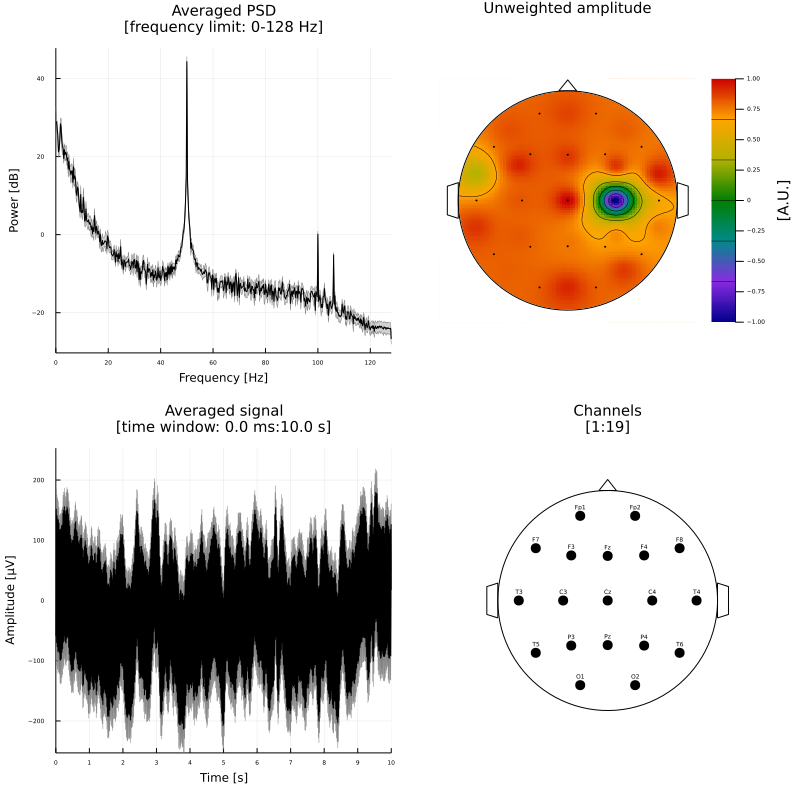
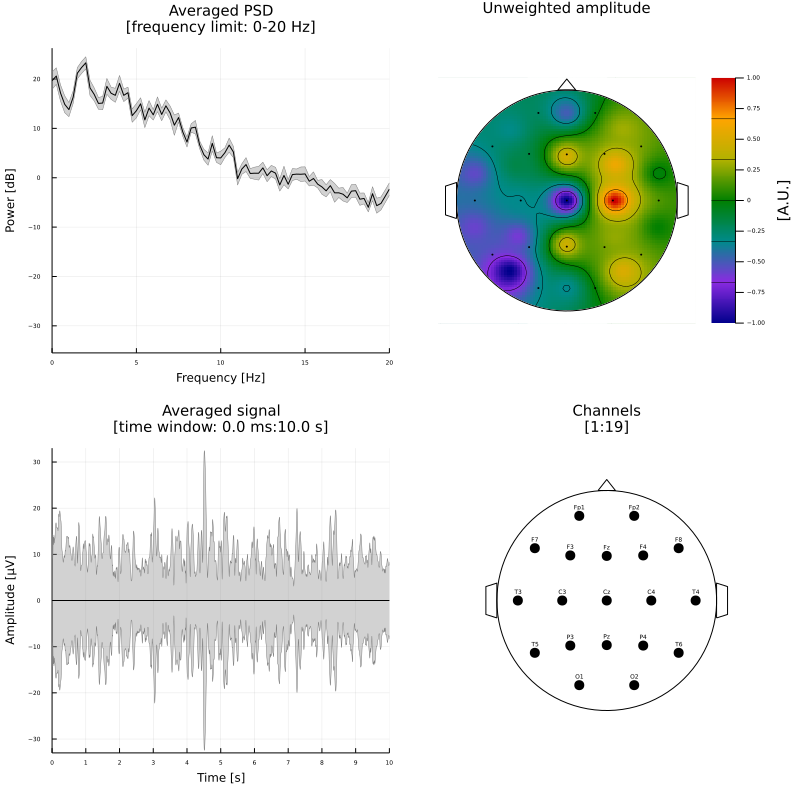
update: tutorial

diff --git a/Tutorial.md b/Tutorial.md
@@ -438,7 +438,7 @@ eeg_plot_psd(edf, len=240*eeg_sr(edf), channel=4, frq_lim=20)
 
 Topographical plots:
 ```julia
-p = eeg_plot_topo(edf, offset=1, len=2560)
+p = eeg_plot_topo(edf, offset=1, len=2560, frq_lim=(0, 20))
 eeg_plot_save(p, file_name="images/edf_amp.png")
 ```
 
